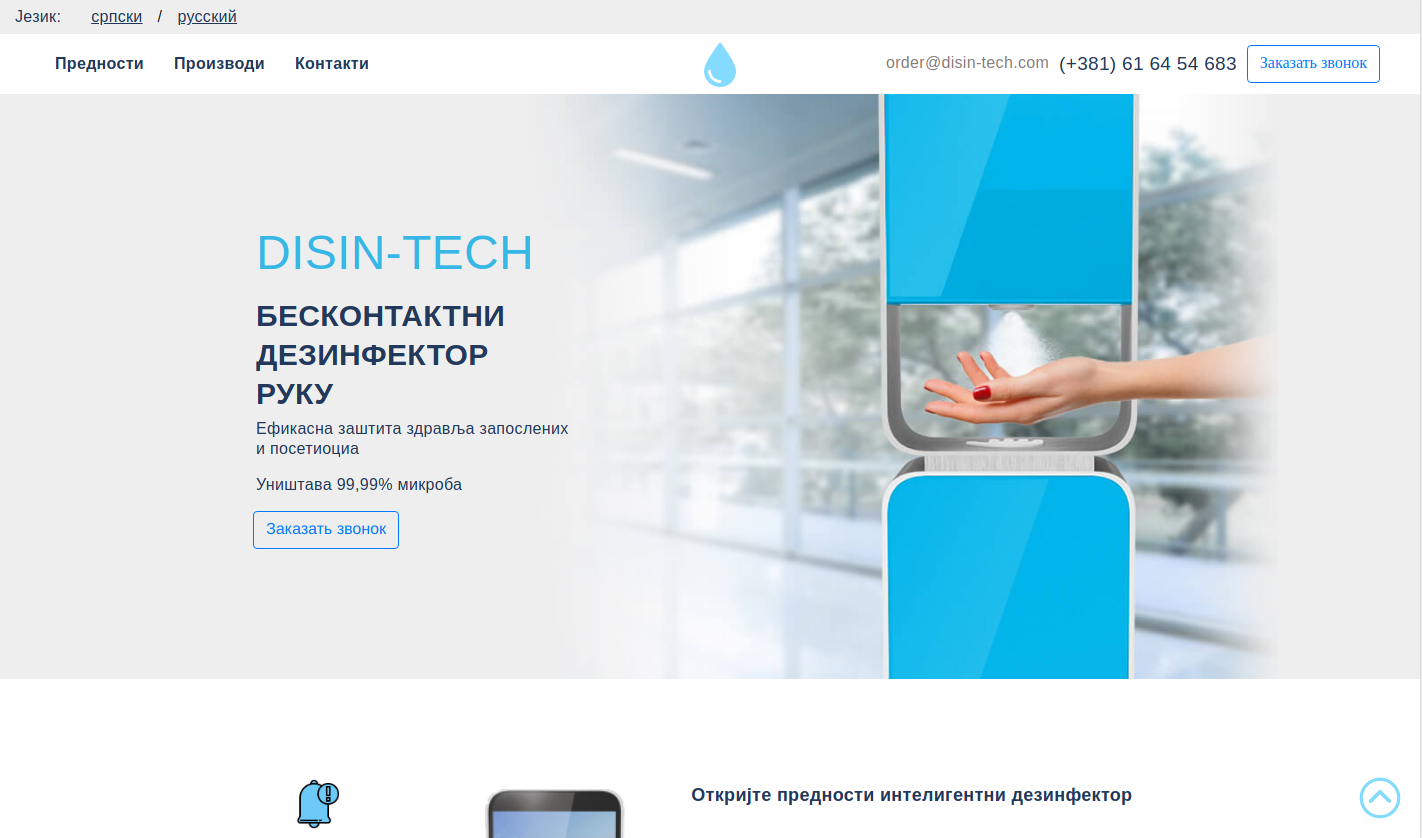
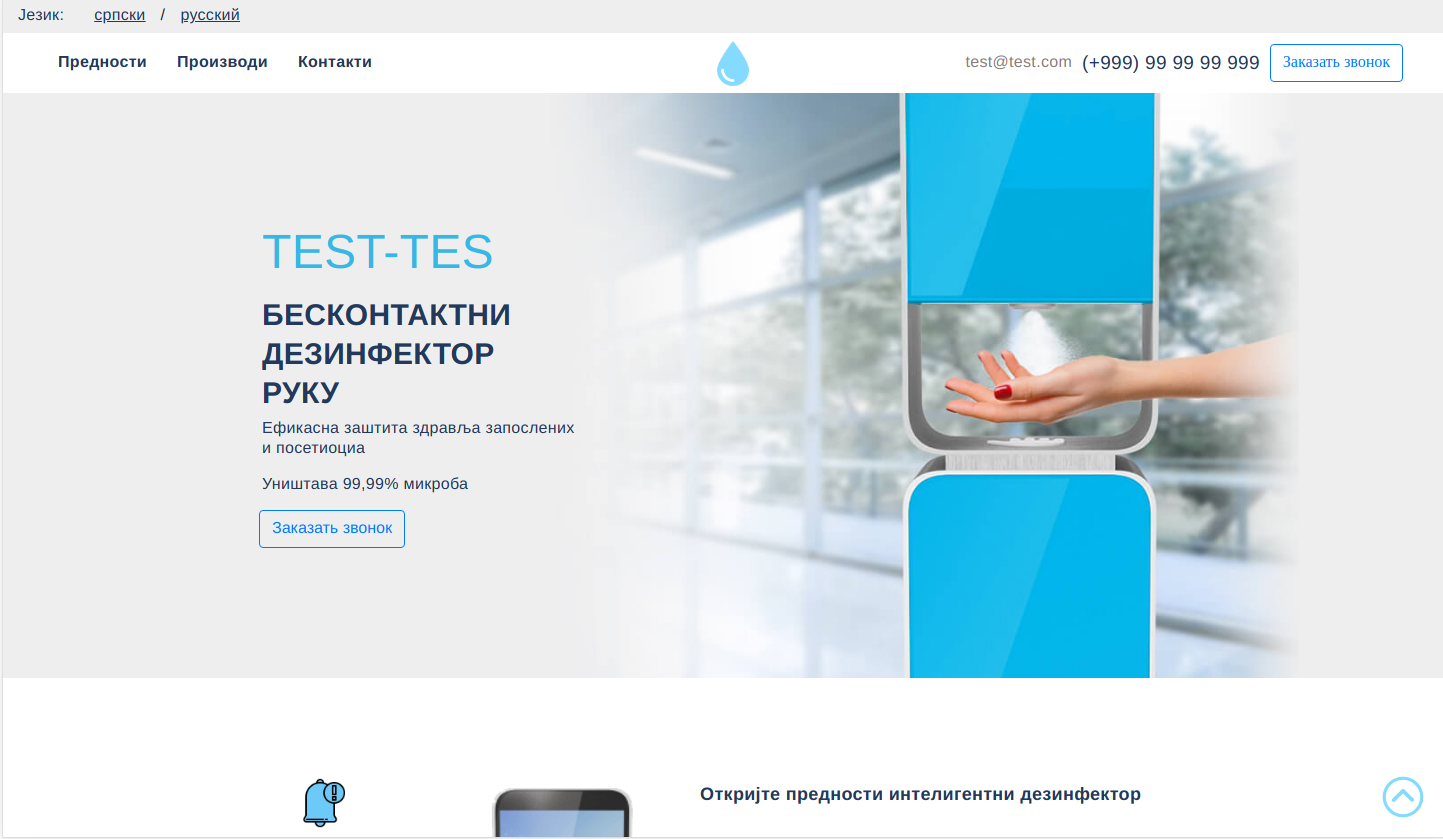
update image to reamde

diff --git a/src/components/Header/index.tsx b/src/components/Header/index.tsx
@@ -47,7 +47,7 @@ const Header = (props: HeaderPropsType): JSX.Element => {
         <span>{MAIL}</span>
       </div>
       <div className="header__phone">
-        <a href={`tel:${phone}`}>(+381) 61 64 54 683</a>
+        <a href={`tel:${phone}`}>(+999) 99 99 99 999</a>
       </div>
       <CallBackButton label={textButton} mix="header__callback" />
       {
